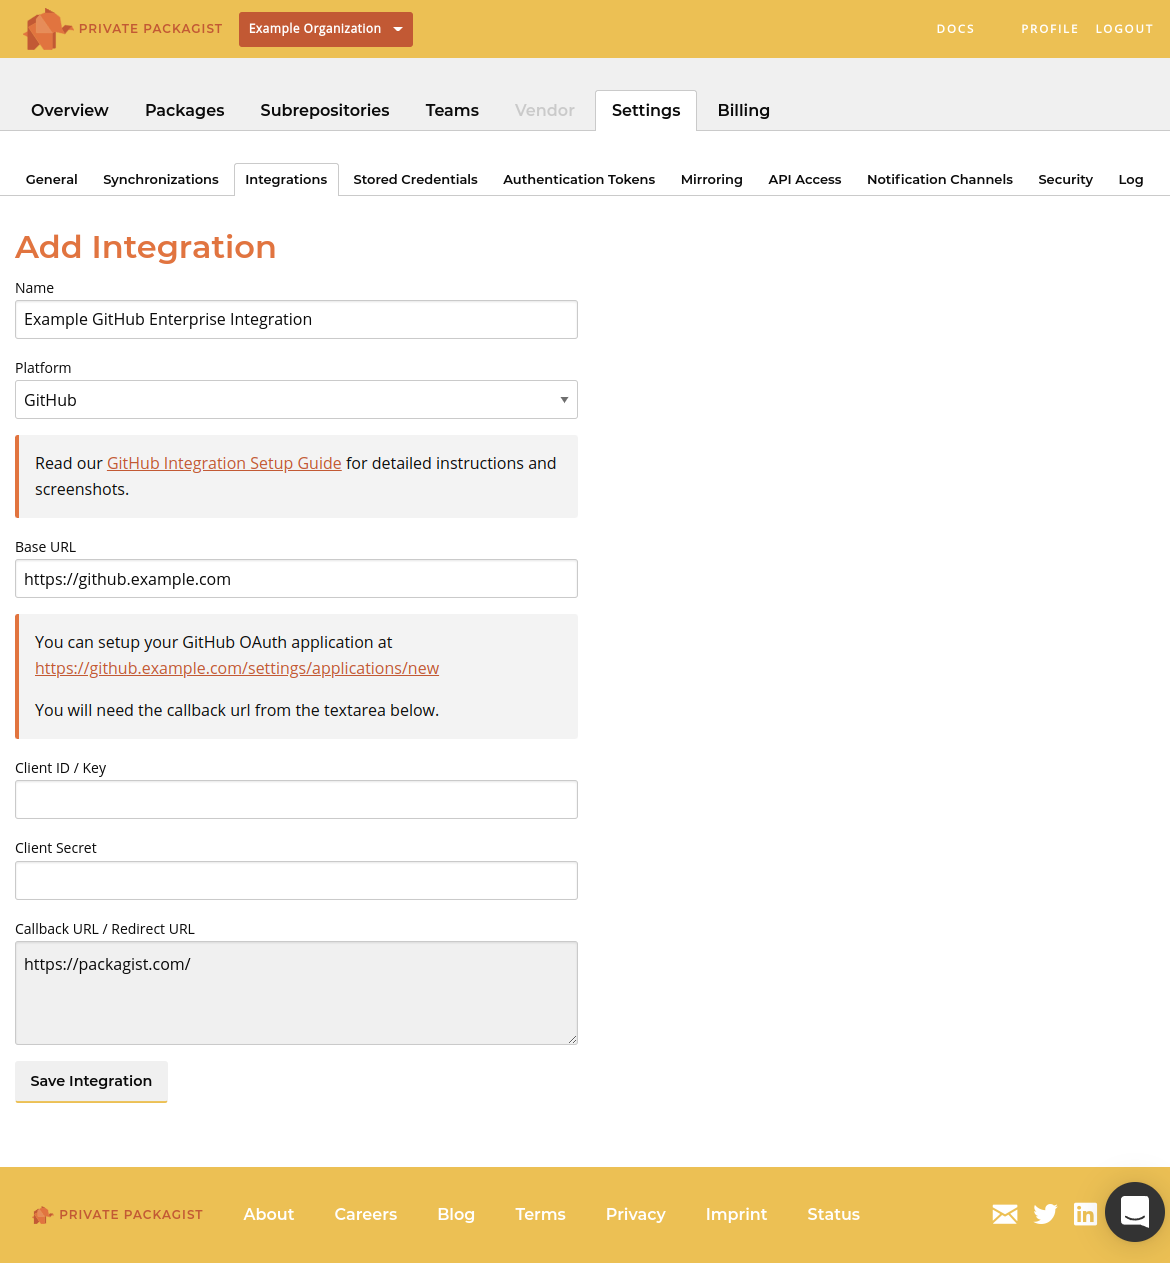
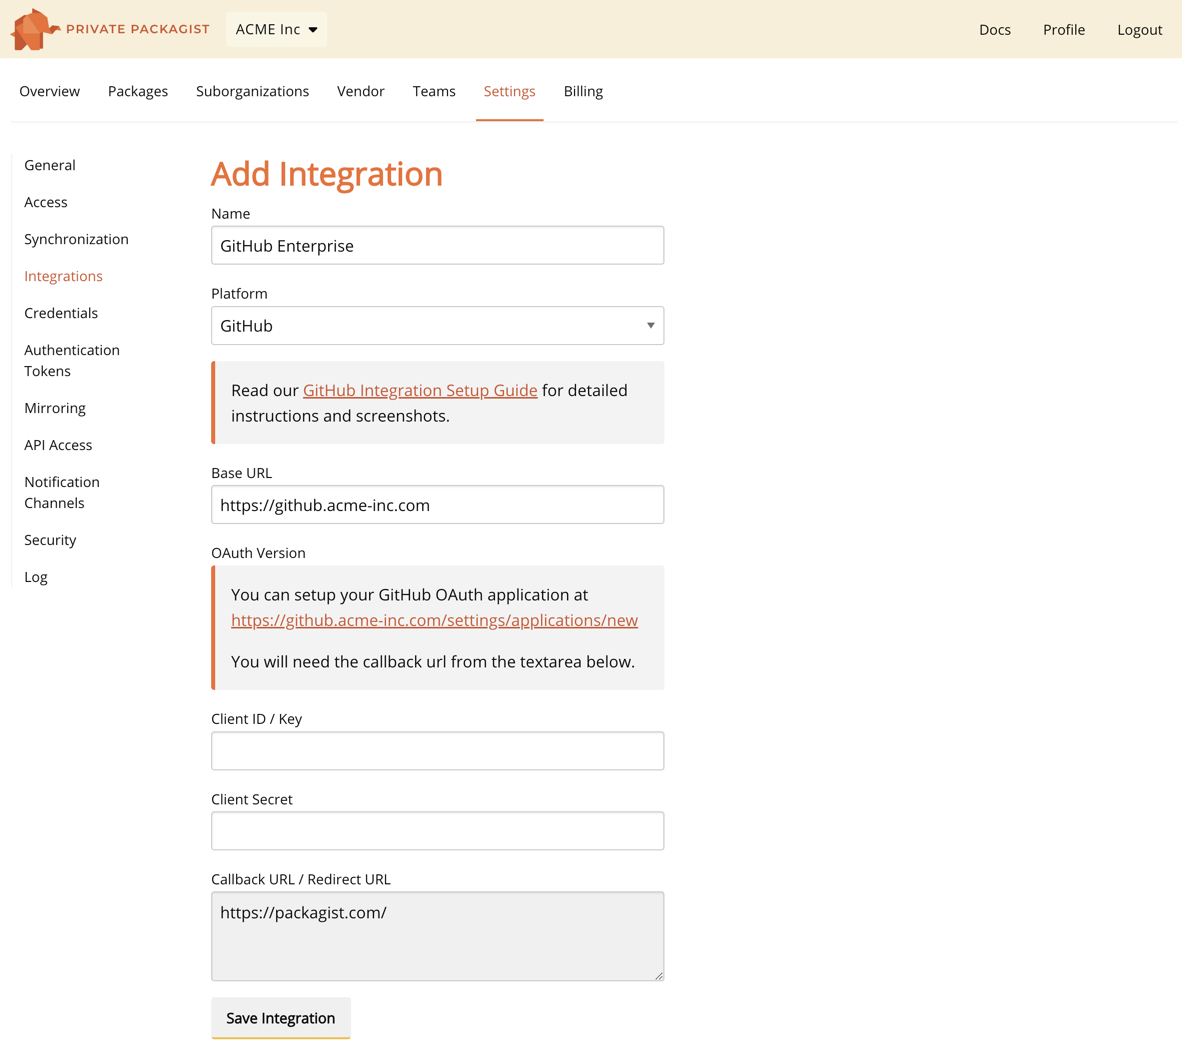
Update the GitHub integration guides

diff --git a/docs/self-hosted/github-integration-setup.md b/docs/self-hosted/github-integration-setup.md
@@ -1,28 +1,50 @@
 # GitHub (Enterprise) Integration Setup
 ## Private Packagist Self-Hosted
 
-This guide explains how to setup an OAuth integration for Private Packagist Self-Hosted with either the on-premises version of GitHub, or their public service on github.com.  
-If you are using our cloud product at packagist.com, [use this guide](../cloud/github-integration-setup.md).
+<div class="row column">
+    <div class="callout success">
+        <p>This guide explains how to setup an OAuth integration for Private Packagist Self-Hosted with either the on-premises version of GitHub, or their public service on GitHub.com.</p>
+        <p>If you are using our Cloud product at packagist.com, <a href="/docs/cloud/github-integration-setup">use this guide</a>.</p>
+    </div>
+</div>
 
-## Initial Setup
-Hit the “Add Integration“ button on the admin page to get to the form below.
+To allow your users to authenticate to Private Packagist Self-Hosted with their GitHub or GitHub Enterprise account, you'll 
+first need to create an integration in Private Packagist. This document walks you through the required steps.
+
+## Open the Add Integration form
+
+Log in with an admin account, go to the Admin section and hit the “Add Integration“ button to open the form to create your integration.
 
 ![Add Integration](/Resources/public/img/docs/self-hosted/08-integration.png)
 
-To setup a GitHub integration with Private Packagist start by selecting "GitHub" as the platform and enter the URL of your GitHub Enterprise Server or <i>https://github.com</i> to use the public GitHub server as seen in the example below. A link to setup the OAuth application on GitHub will automatically be displayed.
+To setup a GitHub integration with Private Packagist start by selecting "GitHub" as the platform and enter the URL of 
+your GitHub Enterprise Server or <i>https://github.com</i> to use the public GitHub server as seen in the example below. 
+A link to set up the OAuth application on GitHub will automatically be displayed.
 
-![Packagist Setup](/Resources/public/img/docs/integration-setup/github-01-packagist-setup.png)
+![Packagist Setup](/Resources/public/img/docs/integration-setup/self-hosted/github-01-packagist-setup.png)
 
 ## Creating an OAuth Application
-Do not submit the integration form yet, but copy the content from the "Callback URL / Redirect URL" and follow the setup link to your GitHub server. The fields Client ID and Client Secret remain empty for now.
+Do not submit the integration form yet, but copy the content from the "Callback 
+URL / Redirect URL" and follow the setup link to your GitHub server. The fields 
+Client ID and Client Secret remain empty for now.
 
-![GitHub Register App](/Resources/public/img/docs/integration-setup/github-02-github-register-app.png)
+![GitHub Register App](/Resources/public/img/docs/integration-setup/self-hosted/github-02-github-register-app.png)
 
-Register a new application on GitHub. This will reveal the client ID and client secret required for finishing the setup on Private Packagist.
+Register a new application on GitHub Enterprise. You'll be redirected to the application's page. Click the "Generate a new client secret" button
+to get a new secret. You'll need the client ID and client secret to finish the setup on Private Packagist.
 
 ![GitHub Credentials](/Resources/public/img/docs/integration-setup/github-03-github-credentials.png)
 
 ## Finish the Setup
-Copy and paste the "Client ID" and "Client Secret" values back into the Private Packagist integration form and submit the form with the "Create Integration" button.
+Copy and paste the "Client ID" and "Client Secret" values back into the Private 
+Packagist integration form and submit the form with the "Create Integration" 
+button.
 
-![Packagist Form](/Resources/public/img/docs/integration-setup/github-04-packagist-form.png)
+![Private Packagist Integration Form](/Resources/public/img/docs/integration-setup/self-hosted/github-04-packagist-form.png)
+
+The GitHub integration will be created and you will be redirected to the admin page. 
+
+The new integration will be shown in the list of available integrations, and your users can 
+now log in to your Private Packagist Self-Hosted installation using their GitHub account.
+
+![Available integrations](/Resources/public/img/docs/integration-setup/self-hosted/github-05-integrations-overview.png)

diff --git a/docs/cloud/github-integration-setup.md b/docs/cloud/github-integration-setup.md
@@ -1,31 +1,55 @@
-# GitHub (Enterprise) Integration Setup
+# GitHub Enterprise Integration Setup
 ## Private Packagist Cloud
 
-## Initial Setup
+<div class="row column">
+    <div class="callout success">
+        <p>
+            This guide explains how to setup an OAuth integration for Private Packagist Cloud with GitHub Enterprise Cloud/Server.
+            If you use their public service on GitHub.com, these instructions are not relevant to you. 
+        </p>
+        <p>If you are using our Self-Hosted product, please <a href="/docs/self-hosted/github-integration-setup">use this guide</a>.</p>
+    </div>
+</div>
+
+To allow your users to authenticate to Private Packagist with their GitHub Enterprise account, you'll first need to create 
+an integration in Private Packagist. This document walks you through the required steps. 
+
+## Open the Add Integration form
 
 From the organization settings page, select the "Integrations" subtab. Hit the "Add Integration" button on the integrations listing page to get to the form below.
 To set up a GitHub Enterprise integration with Private Packagist start by selecting "GitHub" as the platform and enter the URL of your GitHub Enterprise server, as seen in the example below.
-A link to setup the OAuth application on your GitHub enterprise server will automatically be displayed.
+A link to create a new OAuth application on your GitHub enterprise server will automatically be displayed.
 
 ![Packagist Setup](/Resources/public/img/docs/integration-setup/cloud/github-enterprise-01-packagist-setup.png)
 
-## Creating an OAuth Application
+## Create a GitHub Enterprise OAuth Application
 
 Do not submit the integration form yet, but copy the content from the "Callback
 URL / Redirect URL" and follow the setup link to your GitHub server. The fields
 Client ID and Client Secret remain empty for now.
 
-![GitHub Register App](/Resources/public/img/docs/integration-setup/github-02-github-register-app.png)
+![GitHub Register App](/Resources/public/img/docs/integration-setup/cloud/github-enterprise-02-register-app.png)
 
-Register a new application on GitHub. This will reveal the client ID and client
-secret required for finishing the setup on Private Packagist.
+Register a new application on GitHub Enterprise. You'll be redirected to the application's page. Click the "Generate a new client secret" button 
+to get a new secret. You'll need the client ID and client secret to finish the setup on Private Packagist.
 
 ![GitHub Credentials](/Resources/public/img/docs/integration-setup/github-03-github-credentials.png)
 
-## Finish the Setup
+## Create the integration
 
 Copy and paste the "Client ID" and "Client Secret" values back into the Private
 Packagist integration form and submit the form with the "Save Integration"
 button.
 
-![Packagist Form](/Resources/public/img/docs/integration-setup/cloud/github-enterprise-04-packagist-form.png)
+![Complete integration form](/Resources/public/img/docs/integration-setup/cloud/github-enterprise-04-complete-form.png)
+
+You'll be redirected back to the list of integrations.
+
+### Share the GitHub Enterprise login link
+
+The final step is sharing your organization-specific login link with your users. Look for the "Login link" button next to 
+your newly created GitHub Enterprise integration on the integrations page, and copy the URL.
+
+![GitHub Enterprise integration](/Resources/public/img/docs/integration-setup/cloud/github-enterprise-05-integration.png)
+
+This link presents the option to authenticate with your GitHub Enterprise account and can now be used to log in to Private Packagist. 
